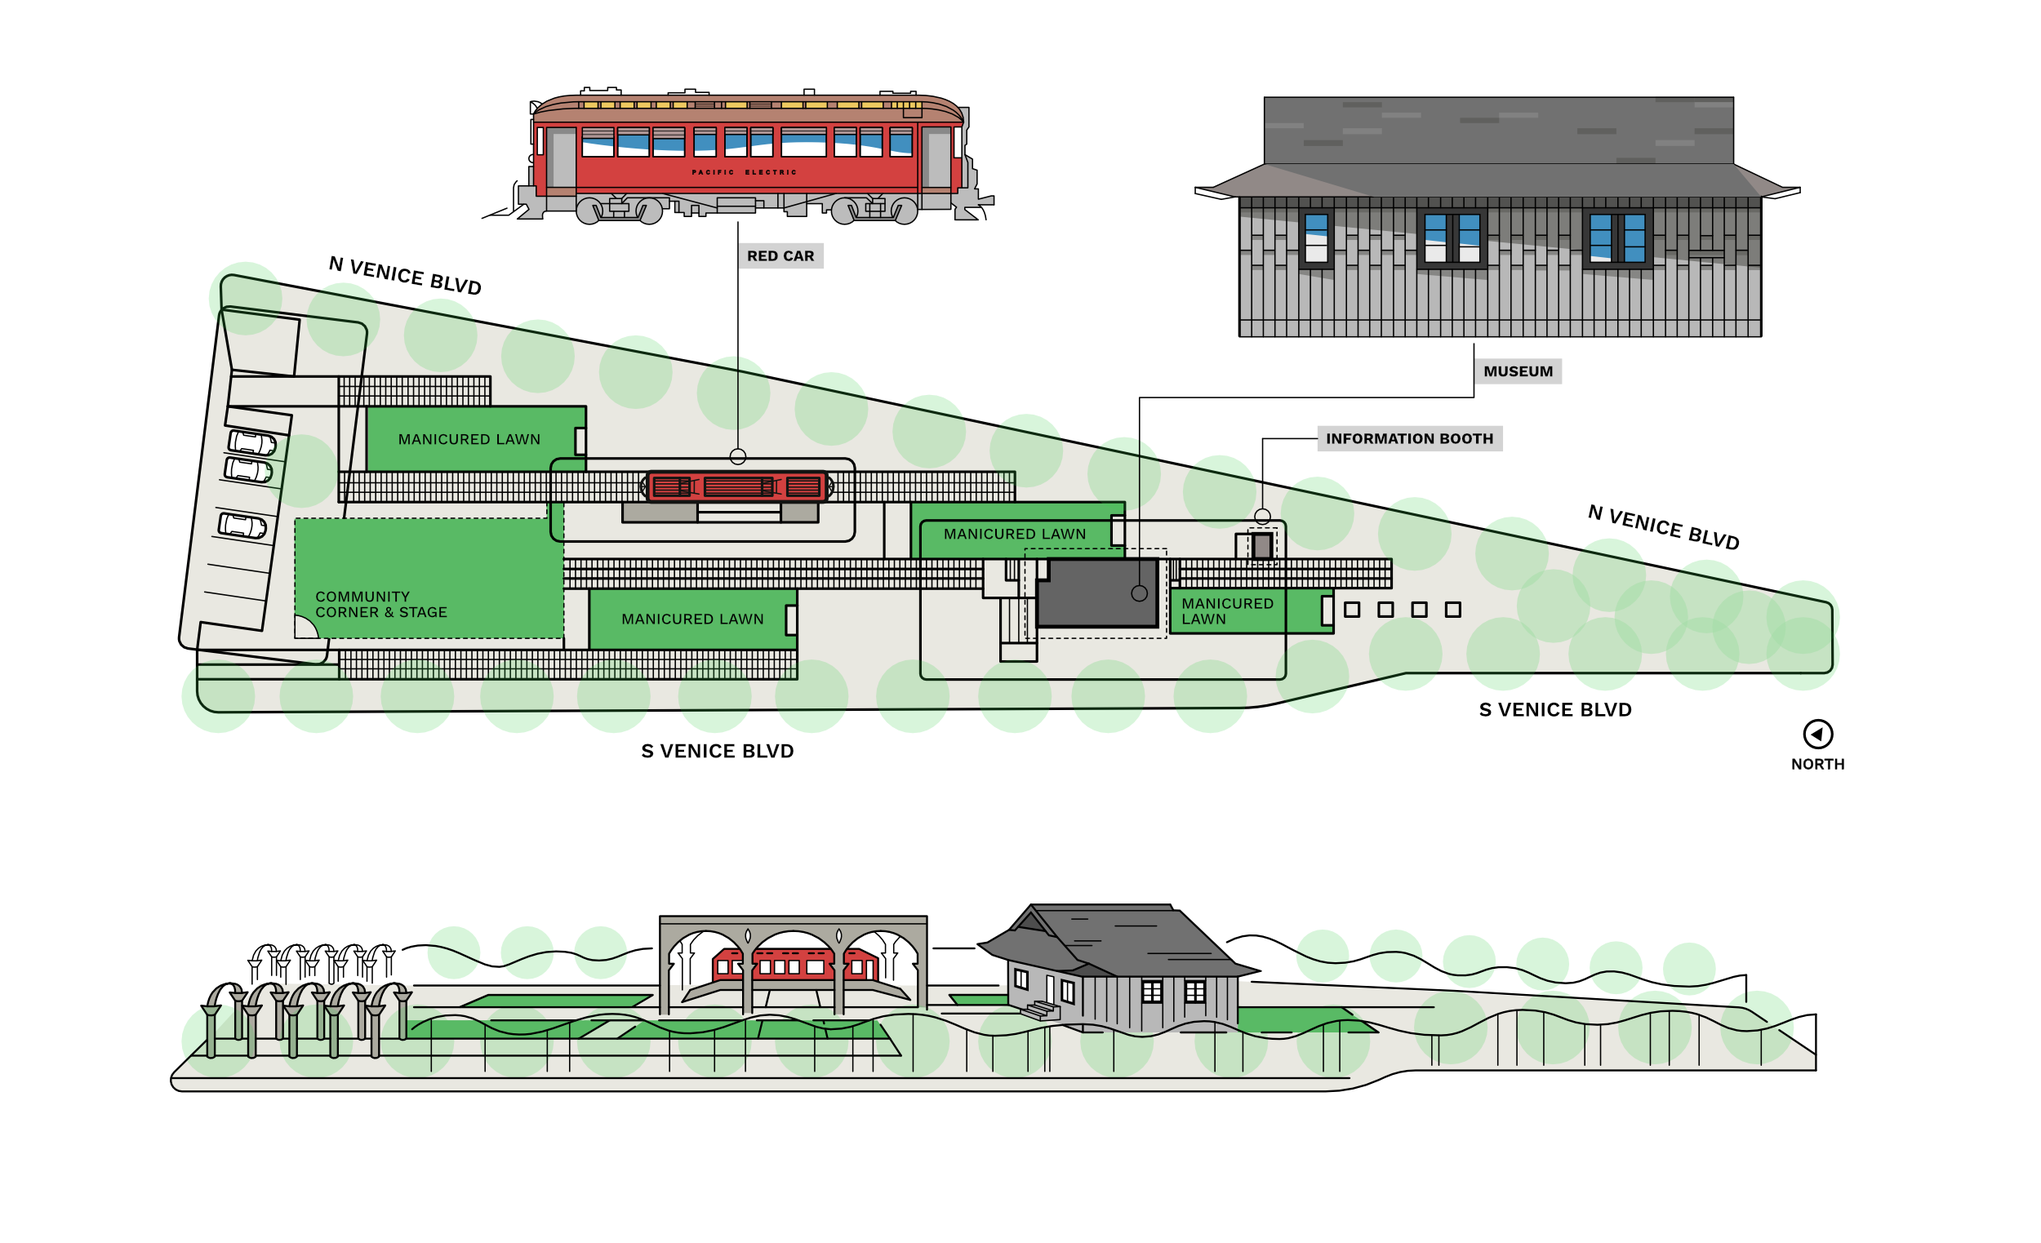
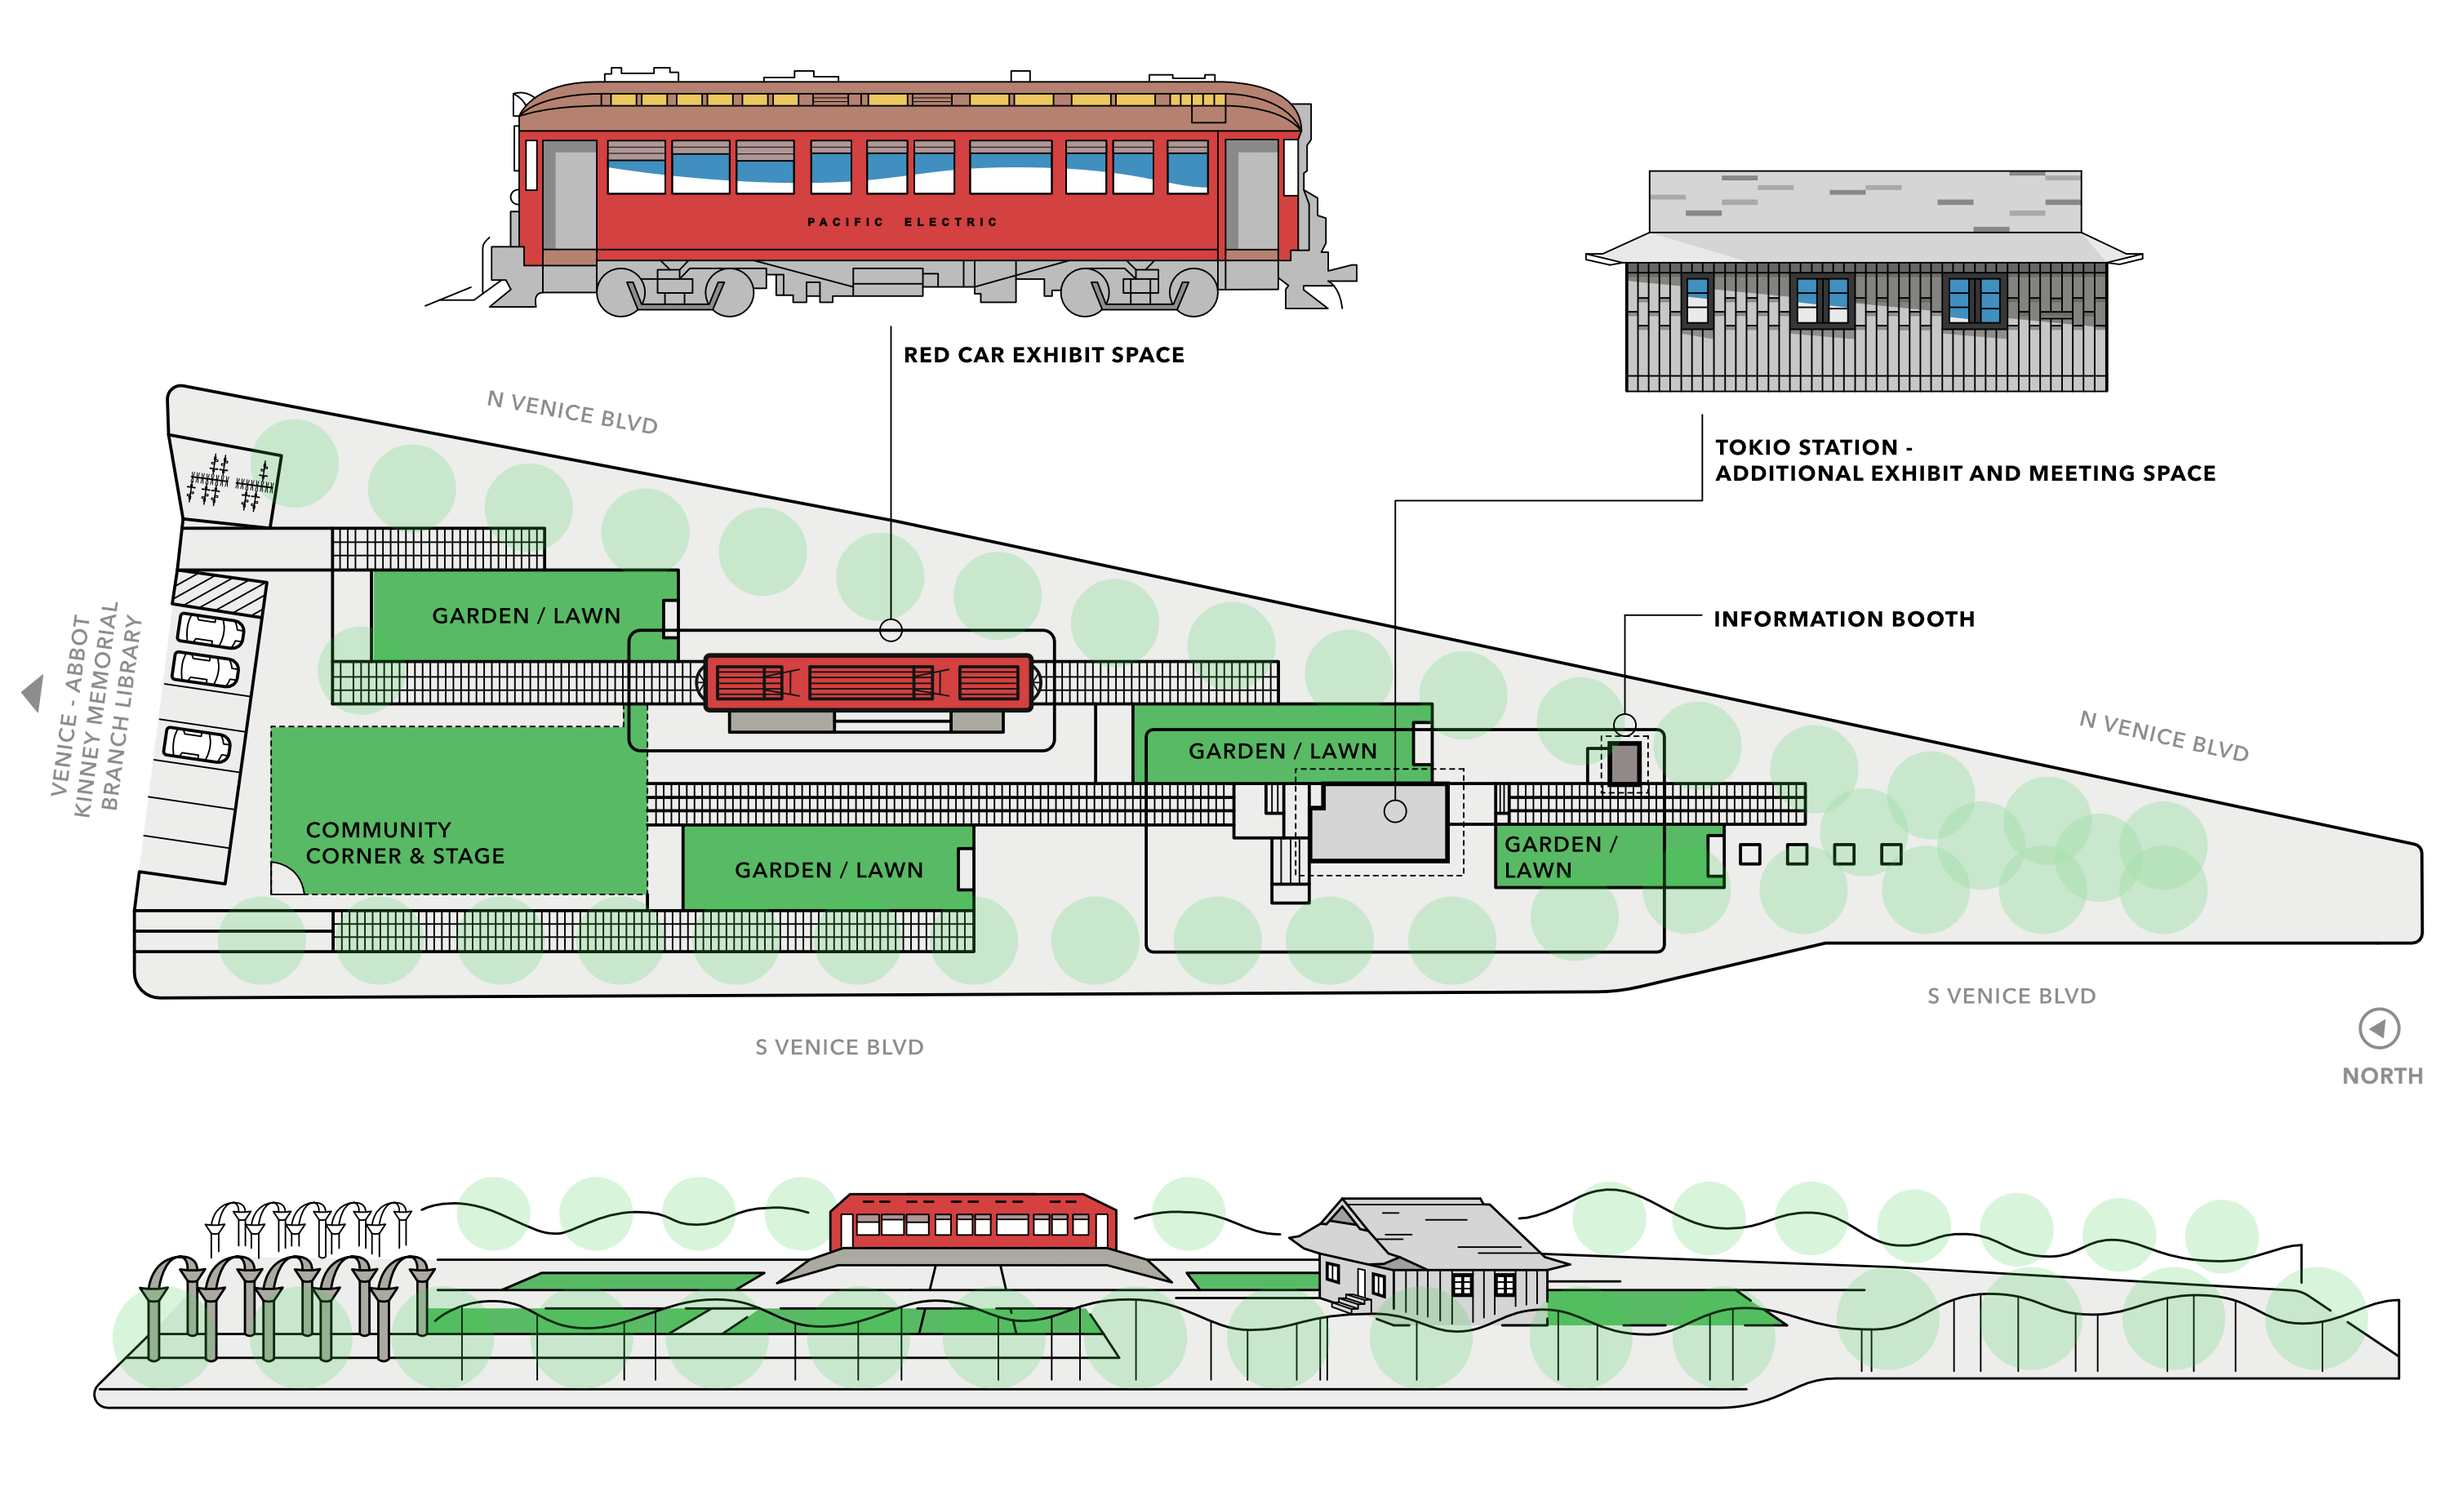
updates

diff --git a/partials/partial2.html b/partials/partial2.html
@@ -100,7 +100,7 @@
 		<h3 class="proj-sm-col"><span>CASE 4 —</span>Venice Heritage Museum Site Plan</h3>
 		<p class="proj-sm-col">What the client needs - A high-resolution digital version of an illustration / site plan that can be used across multiple channels (web, print, and/or merchandising). The old brochure that contains all these plans are in different visual styles, which is one of the main issues of the client.</p>
 
-		<p class="full-width-image"><img ng-src='img/catchafire/Heritage_Museum_Plan_2.png' width='100%' /></p>
+		<p class="full-width-image"><img ng-src='img/catchafire/Heritage_Museum_Plan_1.png' width='100%' /></p>
 
 
 <br>
